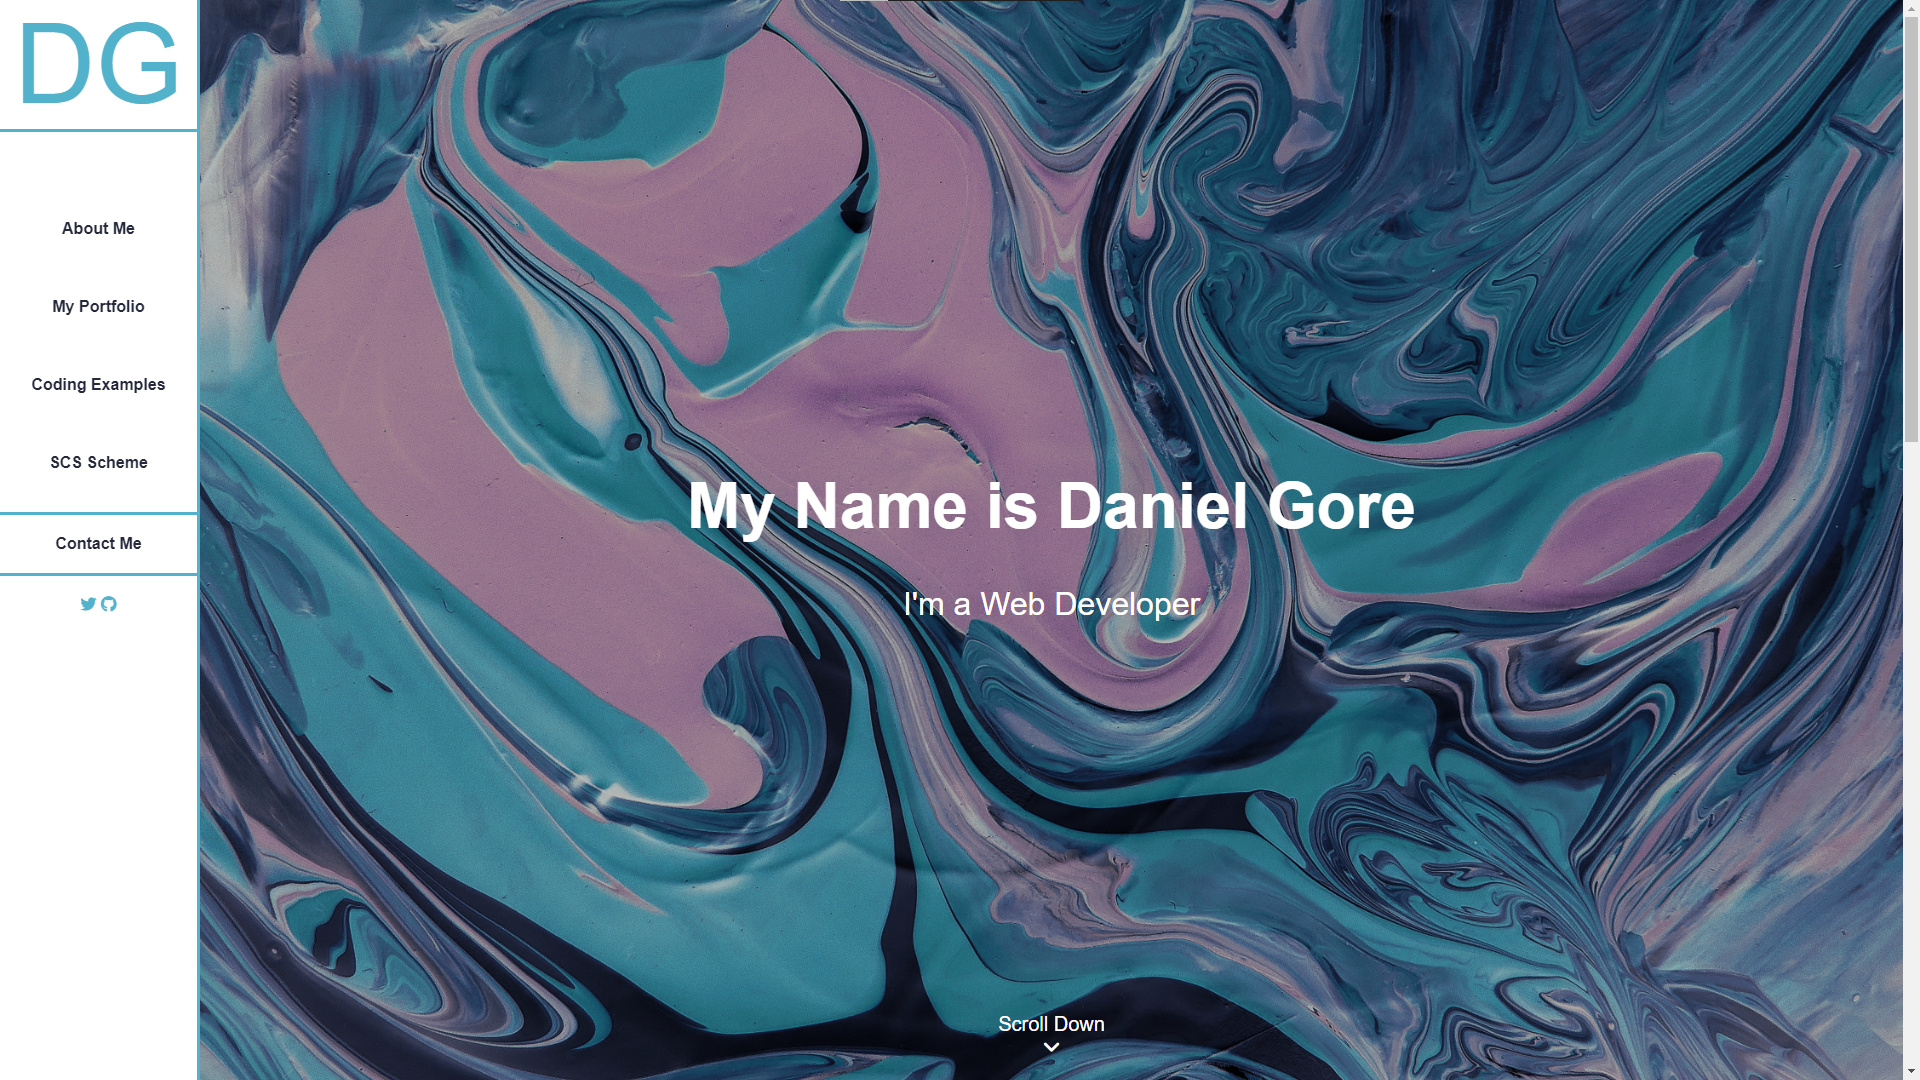
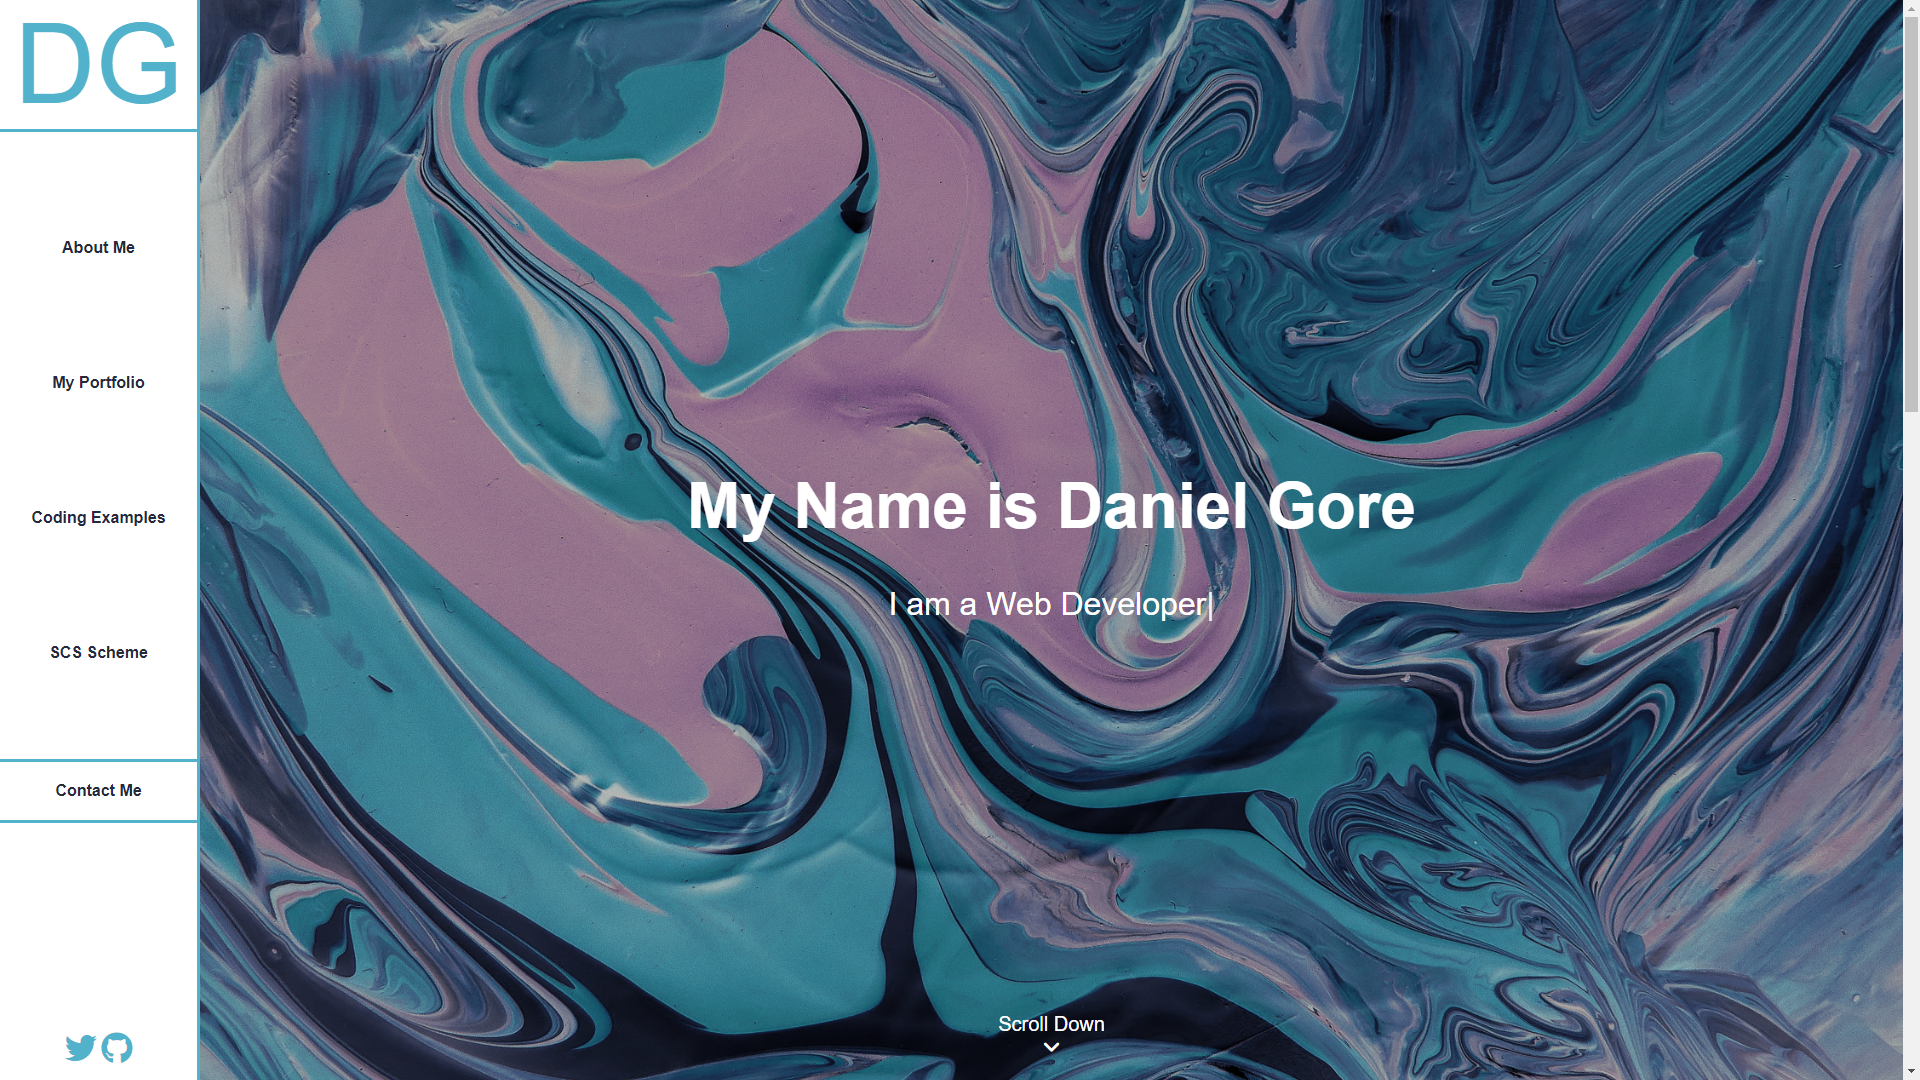
Updated font styling across the site
Forgot to commit. Added code block on coding example page. Added styling to the code block. Added a description for the code block. Changed font styling across the site so that it looks nicer.

diff --git a/index.html b/index.html
@@ -50,6 +50,9 @@
                             <div class="card-body">
                                 <h2>Project One</h2>
                                 <span>View Project &rarr;</span>
+                                <p>
+                                    Lorem ipsum dolor sit amet, consectetur adipiscing elit, sed do eiusmod tempor incididunt ut labore et dolore magna aliqua.
+                                </p>
                             </div>
                         </div>
                     </a>
@@ -59,6 +62,9 @@
                             <div class="card-body">
                                 <h2>Project Two</h2>
                                 <span>View Project &rarr;</span>
+                                <p>
+                                    Lorem ipsum dolor sit amet, consectetur adipiscing elit, sed do eiusmod tempor incididunt ut labore et dolore magna aliqua.
+                                </p>
                             </div>
                         </div>
                     </a>
@@ -68,6 +74,9 @@
                             <div class="card-body">
                                 <h2>Project Three</h2>
                                 <span>View Project &rarr;</span>
+                                <p>
+                                    Lorem ipsum dolor sit amet, consectetur adipiscing elit, sed do eiusmod tempor incididunt ut labore et dolore magna aliqua.
+                                </p>
                             </div>
                         </div>
                     </a>
@@ -77,6 +86,9 @@
                             <div class="card-body">
                                 <h2>Project Four</h2>
                                 <span>View Project &rarr;</span>
+                                <p>
+                                    Lorem ipsum dolor sit amet, consectetur adipiscing elit, sed do eiusmod tempor incididunt ut labore et dolore magna aliqua.
+                                </p>
                             </div>
                         </div>
                     </a>
@@ -86,6 +98,9 @@
                             <div class="card-body">
                                 <h2>Project Five</h2>
                                 <span>View Project &rarr;</span>
+                                <p>
+                                    Lorem ipsum dolor sit amet, consectetur adipiscing elit, sed do eiusmod tempor incididunt ut labore et dolore magna aliqua.
+                                </p>
                             </div>
                         </div>
                     </a>
@@ -95,6 +110,9 @@
                             <div class="card-body">
                                 <h2>Project Six</h2>
                                 <span>View Project &rarr;</span>
+                                <p>
+                                    Lorem ipsum dolor sit amet, consectetur adipiscing elit, sed do eiusmod tempor incididunt ut labore et dolore magna aliqua.
+                                </p>
                             </div>
                         </div>
                     </a>

diff --git a/html/coding_examples.html b/html/coding_examples.html
@@ -32,11 +32,26 @@
                 </nav>
             </div>
             <main>
-                <div class="content hero-img hero-img-flex hero-img-flex-align-center">
+                <div class="content hero-img hero-img-flex hero-img-flex-align-center container">
                     <div class="hero-text box-primary">
                         <div class="container">
-                            <div class="text-about">
-                                <h1>Coming Soon</h1>
+                            <div class="text-coding-examples">
+                                <h1>Coding Examples</h1>
+                                <p>
+                                    The plugin <a href="https://mattboldt.com/demos/typed-js/">Typed.js</a> was used to create the typewriter effect. You will find an example of this code below.
+                                </p>
+                                <div class="code-block">
+                                    <code>
+                                        <span class="var-type">const</span> <span class="var-name">typed</span> = <span class="var-type">new</span> <span class="var-name">Typed</span>(<span class="var-string">".auto-type"</span>, {
+                                            <span class="var">strings</span>: [<span class="var-string">"I am a Web Developer"</span>, <span class="var-string">"I Enjoy Learning"</span>, <span class="var-string">"I Enjoy Problem Solving"</span>, <span class="var-string">"I am a Web Developer"</span>],
+                                            <span class="var">startDelay</span>: <span class="var-int">1000</span>,
+                                            <span class="var">typeSpeed</span>: <span class="var-int">150</span>,
+                                            <span class="var">backSpeed</span>: <span class="var-int">100</span>,
+                                            <span class="var">backDelay</span>: <span class="var-int">1000</span>,
+                                            <span class="var">smartBack</span>: <span class="var-type">true</span>
+                                        });
+                                    </code>
+                                </div>
                             </div>
                         </div>
                     </div>

diff --git a/scss/abstracts/_typography.scss b/scss/abstracts/_typography.scss
@@ -1,31 +1,63 @@
 @use '../abstracts/breakpoints' as *;
+@use '../abstracts/colors' as *;
 .text {
     &-about {
-        font-size: 1.5rem;
+        font-size: 1rem;
+    }
+    &-coding-examples {
+        font-size: 1rem;
+        & p {
+            text-align: left;
+        }
+        & a {
+            color: $name;
+            &:hover {
+                text-decoration: underline;
+            }
+        }
     }
     &-scs {
-        font-size: 1.4rem;
+        font-size: 1rem;
         &-ul {
             list-style: circle;
             text-align: left;
         }
     }
 }
-.pt {
-    &-1 {
-        padding-top: 1rem;
+.p {
+    &b {
+        &-1 {
+            padding-bottom: 1rem;
+        }
     }
-    &-2 {
-        padding-top: 2rem;
+    &t {
+        &-1 {
+            padding-top: 1rem;
+        }
+        &-2 {
+            padding-top: 2rem;
+        }
     }
 }
 @media (max-width: map-get($breakpoints, 'md')) {
     .text {
         &-about {
-            font-size: 1.2rem;
+            font-size: .825rem;
         }
         &-scs {
-            font-size: 1.2rem;
+            font-size: .825rem;
+        }
+        &-coding-examples {
+            font-size: .825rem;
         }
     }
+}
+
+.code-block {
+    text-align: left;
+    background-color: $white;
+    color: $text;
+    font-size: .825rem;
+    padding: 1rem;
+    white-space: pre-line;
 }

diff --git a/css/style.css b/css/style.css
@@ -1,14 +1,29 @@
 .text-about {
-  font-size: 1.5rem;
+  font-size: 1rem;
+}
+.text-coding-examples {
+  font-size: 1rem;
+}
+.text-coding-examples p {
+  text-align: left;
+}
+.text-coding-examples a {
+  color: blue;
+}
+.text-coding-examples a:hover {
+  text-decoration: underline;
 }
 .text-scs {
-  font-size: 1.4rem;
+  font-size: 1rem;
 }
 .text-scs-ul {
   list-style: circle;
   text-align: left;
 }
 
+.pb-1 {
+  padding-bottom: 1rem;
+}
 .pt-1 {
   padding-top: 1rem;
 }
@@ -18,12 +33,24 @@
 
 @media (max-width: 768px) {
   .text-about {
-    font-size: 1.2rem;
+    font-size: 0.825rem;
   }
   .text-scs {
-    font-size: 1.2rem;
+    font-size: 0.825rem;
+  }
+  .text-coding-examples {
+    font-size: 0.825rem;
   }
 }
+.code-block {
+  text-align: left;
+  background-color: #FFF;
+  color: #25293b;
+  font-size: 0.825rem;
+  padding: 1rem;
+  white-space: pre-line;
+}
+
 * {
   scroll-behavior: smooth;
 }
@@ -119,6 +146,22 @@ img {
     transform: translateY(-100%) rotate(500deg);
   }
 }
+.var {
+  color: orangered;
+}
+.var-name {
+  color: blue;
+}
+.var-string {
+  color: brown;
+}
+.var-int {
+  color: green;
+}
+.var-type {
+  color: #08D;
+}
+
 .row {
   display: flex;
   flex-direction: row;

diff --git a/html/scs_scheme.html b/html/scs_scheme.html
@@ -48,7 +48,7 @@
                                     data analysis, and more. By completing courses users can earn points, allowing them to track their progress and see how much they&apos;ve covered
                                     in certain areas.
                                     <span>
-                                        <h3 class="pt-1">Total Score</h3>
+                                        <h3 class="pt-1 pb-1">Total Score</h3>
                                         <a class="btn btn-treehouse" href="https://www.teamtreehouse.com/danielgore3">My Treehouse Profile</a>
                                     </span>
                                 </p>

diff --git a/html/about.html b/html/about.html
@@ -32,7 +32,7 @@
                 </nav>
             </div>
             <main>
-                <div class="content hero-img hero-img-flex hero-img-flex-align-center">
+                <div class="content hero-img hero-img-flex hero-img-flex-align-center container">
                     <div class="hero-text box-primary">
                         <div class="container">
                             <div class="text-about">

diff --git a/scss/components/_code-block.scss b/scss/components/_code-block.scss
@@ -1,0 +1,17 @@
+@use '../abstracts/colors' as *;
+
+.var {
+    color: $var;
+    &-name {
+        color: $name;
+    }
+    &-string {
+        color: $string;
+    }
+    &-int {
+        color: $int;
+    }
+    &-type {
+        color: $type;
+    }
+}

diff --git a/scss/components/_index.scss b/scss/components/_index.scss
@@ -1,5 +1,6 @@
 @use '../components/buttons';
 @use '../components/card';
+@use '../components/code-block';
 @use '../components/flex';
 @use '../components/form';
 @use '../components/hero-img';

diff --git a/js/main.js b/js/main.js
@@ -5,7 +5,7 @@ const typed = new Typed(".auto-type", {
     backSpeed: 100,
     backDelay: 1000,
     smartBack: true
-})
+});
 
 $("#contact").append(`
     <div class="col-8">

diff --git a/scss/abstracts/_colors.scss b/scss/abstracts/_colors.scss
@@ -8,3 +8,9 @@ $grey: grey;
 $grey-light: lightgrey;
 $text: #25293b;
 $missing-img: #ccc;
+
+$name: blue;
+$var: orangered;
+$string: brown;
+$int: green;
+$type: #08D;
